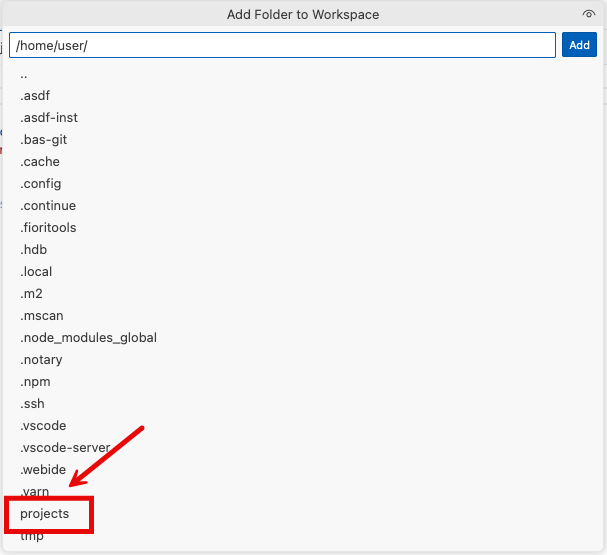
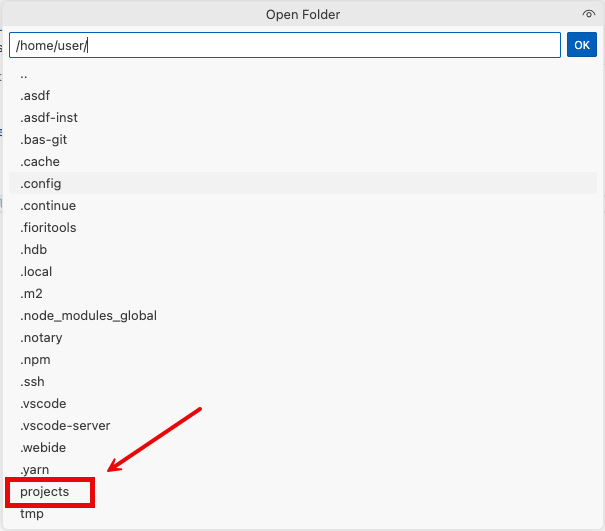
Revert 'Add' to 'Ok' in Ex0

diff --git a/exercises/ex0/README.md b/exercises/ex0/README.md
@@ -80,11 +80,11 @@ And select the **Open Folder** button
 
 ![image](ex0img11.png)
 
-Select the **Projects** folder from the drop down
+Select the **projects** folder from the drop down
 
 ![image](ex0img12.png)
 
-Click **Add** and your window will reload
+Click **OK** and your window will reload
 
 ![image](ex0img13.png)
 
